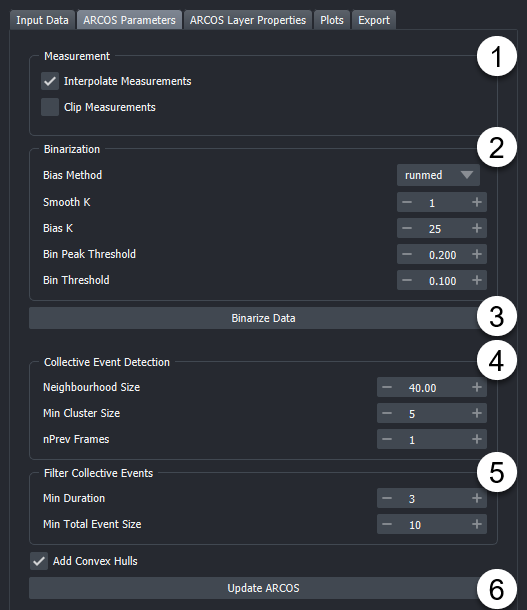
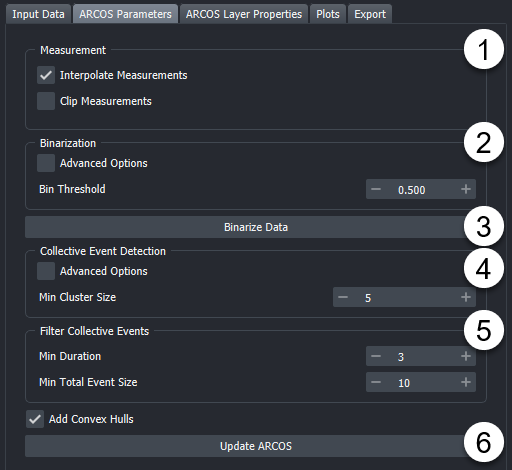
update docs

Changed region(s): [[0.0312, 0.0596, 1.0, 1.0], [0.0, 0.0, 0.7812, 0.0596]]

diff --git a/docs/Usage.md b/docs/Usage.md
@@ -16,14 +16,14 @@ Make sure the arcos-gui and napari are installed.
 ![columnpicker](screenshots/Widget_screenshots-0002.png)
 
 
-1. Tabs represent different steps taken during the processing. Select the "Input Data" Tab to load a csv file.
+1. Tabs represent different steps taken during the processing. Select the "Input Data" Tab to load a CSV file.
 
-2. Open file browser by clicking on the folder icon and select CSV file with data in long format.
-    CSV file can be either comma, semicolon or tab separated. Additionally arcos-gui supports loading csv.gz files. Then press the "Load Data" button.
+2. Open the file browser by clicking on the folder icon and select CSV file with data in long format.
+    CSV file can be either comma, semicolon or tab separated. Additionally, arcos-gui supports loading csv.gz files. Then press the "Load Data" button.
 
 3. In the popup dialogue, select columns corresponding to the indicated label. "Z-coordinates", "Position" and "Additional Filter" (e.g Well) can be None if this column does not exist.
-    Optionally the measurement used for detecting events can be calculated from two differnt columns i.e for Ratios of fluorescent biosensors). Depending on the selection of the operation via radio buttons,
-    an additional column can be specified as second measurement. Default is None.
+    Optionally the measurement used for detecting events can be calculated from two different columns i.e for Ratios of fluorescent biosensors). Depending on the selection of the operation via radio buttons,
+    an additional column can be specified as a second measurement. The default is None.
 
 4. Optional: Filter input data. Parameters can be used to select track length, rescale frame interval and rescale measurement.
 
@@ -34,15 +34,56 @@ Once data is loaded you can select the "ARCOS Parameters" Tab.
 
 ![arcos_parameters](screenshots/Widget_screenshots-0007.png)
 
-1. Toggle if you want to interpolated your measurement column and if you want to clip your measurement values.
+1. Toggle if you want to interpolate your measurement column and if you want to clip your measurement values.
 
-2. Change Binarization parameters, see the [Binarization parameters](#binarization) section for in detail explanation. As a first step, try the None detrending method, since it is the simplest and requires the least tuning of input parameters. To validate binarization you can either look at the created layers. One of which "Active Cells" indicates which objects were detected as being on/ active.
+2. Change Binarization parameters, by default no detrending is used. [Advanced options](#binarization-options) allows showing alternative binarization methods and detrending methods.
 
-3. "Binarize Data" runs only the binarizatoin process. This can be usefull if the collective event detection takes a while. Aswell as to speed up the process of optimizing the binarizatoin step.
+3. "Binarize Data" runs only the binarization process. This can be useful if the collective event detection takes a while. As well as to speed up the process of optimizing the binarization step.
 
-4. Change the Collective event detection parameters, see the [ARCOS parameters](#collective-event-detection) for more details or hover over individual parameters to get tooltipps about individual settings.
+4. Change the Collective event detection parameters. By default, only *Min Cluster Size* is shown. This is the minimum number of objects that need to be within a certain range to be considered a cluster. As a rule of thumb, this can be set to the number of dimensions +1, so for 2D data, a starting value can be 3. But optimizing this parameter can lead to better event detection. By default, the Neighbourhood Size considered for clustering is estimated. See the [Advanced options](#collective-event-detection-options) for more details or hover over individual parameters to get tooltips about individual settings.
 
 5. Update ARCOS. Will run the algorithm and generate layers.
+
+### Advanced Options
+#### Binarization Options
+![advanced_options_bin](screenshots/Widget_screenshots-0010.png)
+
+- **Bias Method**: Choice of binarization/detrending method. Currently available are *none*, *runmed* and *lm*.
+
+    - *None* rescale the measurement globally. Values above *Bin Threshold* are selected as "active".
+
+    - *Runmed* applies a rolling median filter with size *Bias K* to individual tracks, to estimate the global trends in the individual objects. As a rule of thumb, *Bias K* should approximately cover 1/4 of the length of the time series. This is then subtracted from measurement and subsequently, tracks that have values above the "Bin Peak Threshold" are rescaled between 0 and 1. Values above Bin Threshold are selected as "active". This method works best for longer time series since a rather large median filter size is required to get an accurate estimation of a global trend.
+
+    - *lm* fits a polynomial of degree *PolyDeg* to all tracks and then uses this to estimate global trends in tracks. This is then subtracted from measurement and subsequently, tracks that have values above *Bin Peak Threshold* are rescaled between 0 and 1. Values above Bin Threshold are selected as "active".
+
+- **Smooth K**: Intended as a median filter with a small kernel size to remove local noise from the time series. If set to 1, no smoothing is applied.
+
+- **Bias K**: Size of the median filter used for *Runmed* detrending
+
+- **Bin Peak Threshold**: Threshold value used to pick measurement tracks that will be rescaled to the (0,1) range. If set to 0, all will be rescaled.
+
+- **PolyDeg**: Degree of the polynom used in *lm* detrending.
+
+#### Collective Event Detection Options
+![advanced_options_detection](screenshots/Widget_screenshots-0009.png)
+
+- **Estimate Neighbourhood Size**: Tries to estimate an optimal value for the Neighbourhood Size parameter. Options are *mean*, *kneepoint*, *manual*.
+
+    - *Mean*: Calculates 1.5 times the average N nearest neighbour distance between all objects in the currently loaded data. N corresponds here to the Min Cluster Size paramter.
+
+    - *Kneepoint*: Calculates the knee of the sorted N nearest neighbour distance between all "active" (as determined by binarization) objects. The knee in this case would correspond to the point where the distribution of nearest neighbours changes drastically i.e
+    ![kneepoint](screenshots/arcos_eps_kneepoint.png)
+
+    - *Manual*: Manually set eps to optimize event detection. A good strategy can be to try Neighbourhood estimation first and then fin-tune using Manual.
+
+- **Neighbourhood Size**: This is the maximum distance between two binarized objects for one to be considered as in the neighbourhood of the other. This is not a maximum bound on the distances of points within a collective event. I.e. if this value is larger the cluster will increase in size and potentially objects that should not be part of an event will be added. If it is too small no events will be detected. See [DBSCAN](https://en.wikipedia.org/wiki/DBSCAN) for more details on the clustering method used in ARCOS and its parameter.
+
+- **Cluster Linking Distance**: This is the distance used when tracking clusters through the time series. We found that setting this to the same value as *Neighbourhood Size* often results in good cluster linking. By default, this is the case in the napari plugin. If needed by checking the box next to the label, a separate value can be used to link frames together.
+
+**Min Cluster Size**: Minimum number of binarized objects required around an object for it to be considered as a core of a cluster. See [DBSCAN](https://en.wikipedia.org/wiki/DBSCAN) for more details.
+
+**nPrev Frames**: This parameter denotes of many previous frames are considered when linking clusters across the time series. In most cases, 1 should be good enough.
+
 
 
 ## Output Layers
@@ -54,87 +95,87 @@ Once data is loaded you can select the "ARCOS Parameters" Tab.
 
 3. Layers that the plugin adds are:
 
-    - **All Cells**: Centroid of cells with the color code representing the measurement.
+    - **All Cells**: Centroid of cells with the colour code representing the measurement.
     - **Active cells**: Black points represent active cells according to binarization
-    - **Cellective Events Cells**: Points marking cells that are part of a collective event, colored by collective event id.
-    - **Collective Event**: the convex hull of collective events, colored by collective event id.
+    - **Collective Events Cells**: Points marking cells that are part of a collective event, coloured by collective event id.
+    - **Collective Event**: the convex hull of collective events, coloured by collective event id.
 
-## Additional Functionallity
+## Additional Functionality
 
 ### Layer Properties
 ![export_data](screenshots/Widget_screenshots-0006.png)
 
-1. This widget allows for adjustments to various layer properties related to vizualization of the ARCOS input and output data.
+1. This widget allows for adjustments to various layer properties related to the visualization of the ARCOS input and output data.
 
 ### Plots
 Under the widgets "Plots" tab, several types of plots can be found that describe the time-series data and collective events.
-Plots can be saved as images by clicking the "Save" button in the respectives plot toolbar. Exporting as svg is the best option in most cases.
+Plots can be saved as images by clicking the "Save" button in the respective plot toolbar. Exporting as SVG is the best option in most cases.
 
 ![plots](screenshots/Widget_screenshots-0005.png)
 
 
-1.
-These plots help to choose appropriate parameters for ARCOS and track length filtering.
+- These plots help to choose appropriate parameters for ARCOS and track length filtering.
     Plots are chosen through dropdown menus.
     Available plots are:
 
     - Track length Histogram
 
-        > Plots a Histogramm of object tracklenghts in the source data.
+        > Plots a histogram of object track lengths in the source data.
 
     - Measurement Density plot
 
-        > This plot shows the density distribution of the original measurement value that was selected in the columnpicker. The density is calculated using a kernel density
-        estimation algorithm (kde).
+        > This plot shows the density distribution of the original measurement value that was selected in the column picker. The density is calculated using a kernel density
+        estimation algorithm (KDE).
 
     - Measurement Density plot (rescaled)
 
-        > This plot shows a the density distribution of the rescaled measurement value as calculated during the binarizatoin step. The density is calculated using a kernel density
-    estimation algorithm (kde).
+        > This plot shows the density distribution of the rescaled measurement value as calculated during the binarization step. The density is calculated using a kernel density
+    estimation algorithm (KDE).
 
     - Original vs Rescaled measurement
 
-        > The Original vs Rescaled plot is plotting the rescaled and detrended signal of a random object. To choose another random object, the "Update Plot" button can be pressed.
+        > The Original vs Rescaled plot shows the rescaled and detrended signal of a random object. To choose another random object, the "Update Plot" button can be pressed.
         In addition by selecting the "All Cells" layer in the viewer and using the selection tool to click on individual points, the corresponding signals are plotted, with an
-        indication in red of which part of the time series were detected as being active.
+        indication in red of which part of the time series was detected as being active.
 
     - X-T and Y-T plot
 
-        > These two plots project the tracks in the filtered data on one axis and have the time on the other. This allows to check the quality of the tracking to a certain extent.
+        > These two plots project the tracks in the filtered data on one axis and have the time on the other. This allows us to check the quality of the tracking to a certain extent.
 
 2.
 These plots are both interactive and allow users to explore the ARCOS output more in-depth.
 The respective plot can be selected from the corresponding tab.
 Available plots are:
-    - Collev Plot:
 
-        > Interactive Scatterplot of duration vs size of Collective events.
-        On hover, shows collective event id, on click takes user to first frame of selected collective event and marks this event with a bounding box.
+- Collev Plot:
 
-    - Noodle Plot:
+    > Interactive Scatterplot of duration vs size of Collective events.
+        On hover, shows the collective event id, and on click takes the user to the first frame of the selected collective event and marks this event with a bounding box.
 
-        > Interactive Noodleplot of position coordinate vs time. Individual lines represent individual objects (such as cells). Lines are colored by collective event id.
-        On hover, shows collective event id, on click takes user to first frame of selected collective event and marks this event with a bounding box.
-        Dropdown allows choice of projection axis.
+- Noodle Plot:
+
+    > Interactive Noodleplot of the position coordinate vs time. Individual lines represent individual objects (such as cells). Lines are coloured by collective event id.
+    On hover, shows the collective event id, and on click takes the user to the first frame of the selected collective event and marks this event with a bounding box.
+    The dropdown allows a choice of projection axis.
 
 3.
-By clicking on this button the plot is opend as a popup window that can be freely resized. By closing this popup window the plot is readded to the widget.
+By clicking on this button the plot is opened as a popup window that can be freely resized. By closing this popup window the plot is readded to the widget.
 
 
 ### Export
 
-In this tab various optoins for exporting output are available.
+In this tab various options for exporting output are available.
 
 ![export_tab](screenshots/Widget_screenshots-0004.png)
 
 1.
-The data generated by Arcos can be exported as a CSV file. "Export ARCOS Data" will save a csv file containing the input data appended with a column containing trackids for collective event.
-"Export ARCOS Statistics" will save a csv file containing some basic collective event statistics such as average duration, staringpoint, endingpoint
-"Export Parameters" will save a csv file containg the parameters used for detecting collective events.
+The data generated by Arcos can be exported as a CSV file. "Export ARCOS Data" will save a CSV file containing the input data appended with a column containing tracks for collective events.
+"Export ARCOS Statistics" will save a CSV file containing some basic collective event statistics such as average duration, starting point, endpoint
+"Export Parameters" will save a CSV file containing the parameters used for detecting collective events.
 
 2.
-The layers generated by arcos can be exported as a sequence of screenshots. Also a "Add Timestamp" button can optionally add a timestamp layer to the output.
-The checkbox "Try to adjust Viewer" will try to fit the data in the viewer to the specified size. This is an experimental feature and will likely not work for 3D data and not for either very large, or very small dimensions since the viewer has limits on how small/ how large it can get. These depend on the actual screensize.
+The layers generated by ARCOS can be exported as a sequence of screenshots. Also, a "Add Timestamp" button can optionally add a timestamp layer to the output.
+The checkbox "Try to adjust Viewer" will try to fit the data in the viewer to the specified size. This is an experimental feature and will likely not work for 3D data and not for either very large or very small dimensions since the viewer has limits on how small/ how large it can get. These depend on the actual screen size.
 
 
 ## ARCOS parameters
@@ -153,11 +194,11 @@ The checkbox "Try to adjust Viewer" will try to fit the data in the viewer to th
 |---------------------------|-----------------------------------------------------------------------------------------------------|
 | Bias Method               | Choose de-trending method, <br>can be runmed, lm or none                                     |
 | Smooth K                  | Size of the short-term median smoothing filter.                                                         |
-| Bias K                    | Available if Bias Method is set to 'runmed', <br>size of long term median smoothing filter          |
+| Bias K                    | Available if Bias Method is set to 'runmed', <br>size of long-term median smoothing filter          |
 | polyDeg                   | Available if Bias Method is set to 'lm',<br>sets the degree of the polynomial for regression detrending |
 | Bin Peak Threshold        | Threshold for rescaling of the de-trended signal.                                                   |
 
-First, a short-term median filter with size smoothK is applied to remove fast noise from the time series. If the Bias Method is set to "none", smoothing is applied on globally rescaled time series. The subsequent de-trending can be performed with a long-term median filter with the size biasK {biasMet = "runmed"} or by fitting a polynomial of degree polyDeg {biasMet = "lm"}.
+First, a short-term median filter with size smoothK is applied to remove fast noise from the time series. If the Bias Method is set to "none", smoothing is applied to globally rescaled time series. The subsequent de-trending can be performed with a long-term median filter with the size biasK {biasMet = "runmed"} or by fitting a polynomial of degree polyDeg {biasMet = "lm"}.
 After de-trending, if the global difference between min/max is greater than the threshold the signal is rescaled to the (0,1) range. The final signal is binarised using the binThr threshold parameter.
 
 ### Collective Event Detection
@@ -177,5 +218,5 @@ After de-trending, if the global difference between min/max is greater than the 
 
 
 ### Additional
-Add Convex Hull: If checked, the convex hull is calculated for each collective event and drawn in 2d as polygons, in 3d as surfaces. If a large ammount of collective events are detected, adding
-polygons / surfaces can take some time.
+Add Convex Hull: If checked, the convex hull is calculated for each collective event and drawn in 2d as polygons, and in 3d as surfaces. If a large amount of collective events are detected, adding
+polygons/surfaces can take some time.
